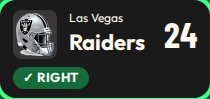
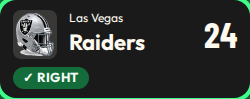
Widen the week before it splits into two columns.
Two columns and the divider now start at 1440px, where the page can grow to 1480px. Below that the week header, leaderboard, and Monday total stay in the same 680px column as the games, and team names stay whole.

diff --git a/src/styles.css b/src/styles.css
@@ -641,7 +641,16 @@ main {
     transform: translateY(-50%);
   }
 }
-@media (min-width: 1200px) {
+@media (max-width: 1439px) {
+  .hero.week,
+  .strip,
+  .panel.mnf {
+    width: min(680px, 100%);
+    margin-inline: auto;
+  }
+}
+@media (min-width: 1440px) {
+  main { width: min(1480px, 100%); }
   .games {
     position: relative;
     width: 100%;
@@ -664,4 +673,17 @@ main {
     -webkit-mask-image: linear-gradient(to bottom, transparent, #000 16%, #000 84%, transparent);
     mask-image: linear-gradient(to bottom, transparent, #000 16%, #000 84%, transparent);
   }
+  .team.aside .team-row {
+    display: grid;
+    grid-template-columns: auto minmax(0, 1fr) auto;
+    column-gap: 12px;
+    row-gap: 0;
+    align-items: center;
+  }
+  .team.aside .helmet { grid-row: 1 / span 2; grid-column: 1; }
+  .team.aside .team-name { display: contents; }
+  .team.aside .team-name small { grid-row: 1; grid-column: 2; }
+  .team.aside .team-name strong { grid-row: 2; grid-column: 2; }
+  .team.aside .winner-mark { grid-row: 1; grid-column: 3; margin-left: 0; }
+  .team.aside .score { grid-row: 2; grid-column: 3; margin-left: 0; }
 }
